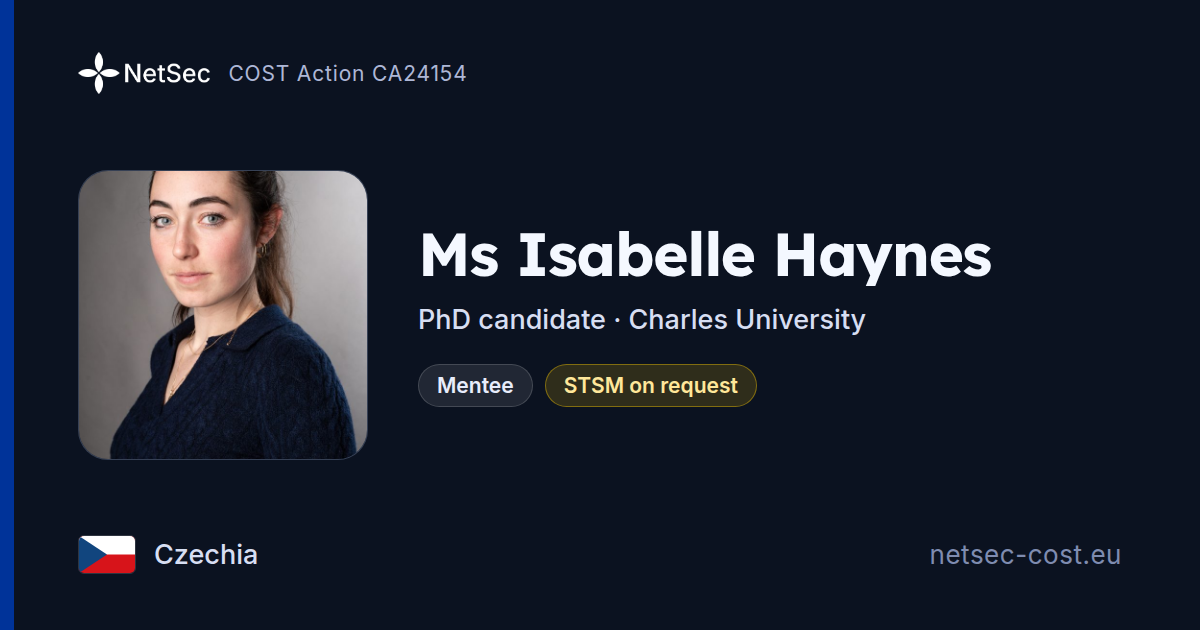
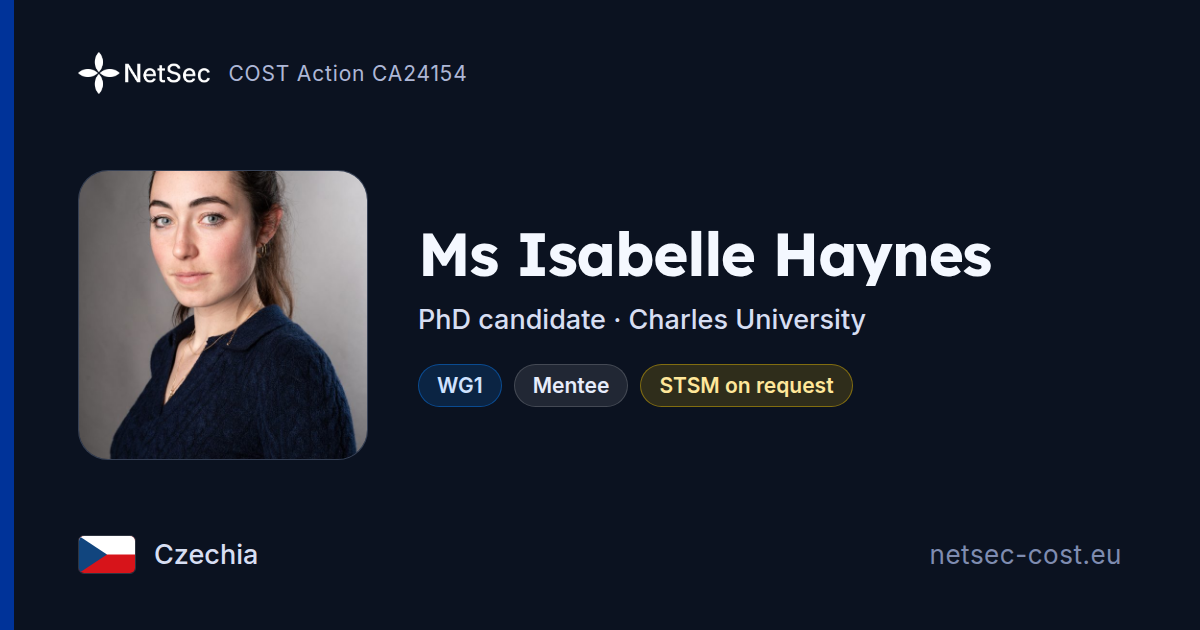
data: sync WG memberships + leadership from cost.eu (#1244)

Changed region(s): [[0.3392, 0.573, 0.7092, 0.6635]]

diff --git a/people/isabelle-haynes.de.html b/people/isabelle-haynes.de.html
@@ -151,7 +151,7 @@
 </header>
 <main id="main" class="profile-page">
   <div class="container profile-container">
-    <article class="member-card glass is-profile"><div class="profile-hero"><div class="member-photo"><picture><source srcset="assets/images/people/isabelle-haynes.webp" type="image/webp"><img src="assets/images/people/isabelle-haynes.jpg" alt="Ms Isabelle Haynes" loading="lazy"></picture></div><div class="profile-hero-id"><h1 class="member-name">Ms Isabelle Haynes</h1><p class="member-affiliation"><img class="member-flag" src="https://flagcdn.com/h20/cz.png" alt="" loading="lazy"> <span class="aff-full">PhD candidate · Charles University · Czechia</span></p><div class="profile-actions"><span class="mentorship-badge is-seeking" data-i18n="Seeking mentorship">Seeking mentorship</span><span class="stsm-badge is-ask" data-i18n="Open to hosting STSM visitors">Open to hosting STSM visitors</span></div></div></div><div class="profile-cols"><div class="profile-main"><p class="member-bio is-expanded">Isabelle Haynes is a PhD candidate in the Area Studies program at the Institute of International Studies, Faculty of Social Sciences, Charles University. She is a Junior Research at the Peace Research Centre Prague and the PhD student on the ERC-project MICROCODE. She holds an MSc in Migration Studies and an MPhil in International Relations from the University of Oxford, as well as a BA in Archaeology and Classics from University College London. Isabelle has professional experience across the public, private, and academic sectors, including roles at UN Tourism, the UK Ministry of Defence, the Nuffield Centre for Experimental Social Science, and SouthWest Archaeology.</p><div class="member-keywords" aria-label="Research interests"><span class="member-keyword-chip is-static">Collective defence</span><span class="member-keyword-chip is-static">Defence attitudes</span><span class="member-keyword-chip is-static">NATO</span><span class="member-keyword-chip is-static">Public opinion</span></div></div><aside class="profile-aside"><div class="profile-anthology-slot" hidden></div><p class="profile-aside-label" data-i18n="Research themes">Research themes</p><div class="profile-areas"><a class="profile-area-chip" href="people.de.html#themes=european-and-transatlantic-security-order" data-i18n="European and transatlantic security order">European and transatlantic security order</a></div><p class="profile-aside-label" data-i18n="Research regions">Research regions</p><div class="profile-areas"><a class="profile-area-chip is-region" href="people.de.html#regions=europe-western-balkans" data-i18n="Europe - Western Balkans">Europe - Western Balkans</a><a class="profile-area-chip is-region" href="people.de.html#regions=global-and-cross-regional" data-i18n="Global and cross-regional">Global and cross-regional</a></div><div class="profile-similar"><p class="profile-aside-label" data-i18n="Works on similar topics">Works on similar topics</p><span class="pf-facepile"><a class="pf-face" href="people/alexander-lanoszka.de.html" aria-label="Dr Alexander Lanoszka"><picture><source srcset="assets/images/people/alexander-lanoszka.webp" type="image/webp"><img src="assets/images/people/alexander-lanoszka.jpg" alt="" width="44" height="44" loading="lazy" decoding="async"></picture></a><a class="pf-face" href="people/john-helferich.de.html" aria-label="Dr John N.T. Helferich"><picture><source srcset="assets/images/people/john-helferich.webp" type="image/webp"><img src="assets/images/people/john-helferich.jpg" alt="" width="44" height="44" loading="lazy" decoding="async"></picture></a><a class="pf-face" href="people/linde-desmaele.de.html" aria-label="Dr Linde Desmaele"><picture><source srcset="assets/images/people/linde-desmaele.webp" type="image/webp"><img src="assets/images/people/linde-desmaele.jpg" alt="" width="44" height="44" loading="lazy" decoding="async"></picture></a><a class="pf-face" href="people/sophie-enos-attali.de.html" aria-label="Dr Sophie Enos-Attali"><span class="pf-initials" aria-hidden="true">DS</span></a><a class="pf-face" href="people/francesco-canossi.de.html" aria-label="Mr Francesco Canossi"><picture><source srcset="assets/images/people/francesco-canossi.webp" type="image/webp"><img src="assets/images/people/francesco-canossi.jpg" alt="" width="44" height="44" loading="lazy" decoding="async"></picture></a><span class="pf-face pf-more" aria-hidden="true">+1</span></span><a class="profile-similar-link" href="people.de.html#themes=european-and-transatlantic-security-order" data-i18n="See everyone in these themes">See everyone in these themes</a></div><div class="profile-similar profile-mentors"><p class="profile-aside-label" data-i18n="Mentors on similar topics">Mentors on similar topics</p><span class="pf-facepile"><a class="pf-face" href="people/alexander-lanoszka.de.html" aria-label="Dr Alexander Lanoszka"><picture><source srcset="assets/images/people/alexander-lanoszka.webp" type="image/webp"><img src="assets/images/people/alexander-lanoszka.jpg" alt="" width="44" height="44" loading="lazy" decoding="async"></picture></a><a class="pf-face" href="people/linde-desmaele.de.html" aria-label="Dr Linde Desmaele"><picture><source srcset="assets/images/people/linde-desmaele.webp" type="image/webp"><img src="assets/images/people/linde-desmaele.jpg" alt="" width="44" height="44" loading="lazy" decoding="async"></picture></a></span><a class="profile-similar-link" href="people.de.html#mentorship=mentor&amp;themes=european-and-transatlantic-security-order" data-i18n="See these mentors in the directory">See these mentors in the directory</a></div><div class="member-contact" aria-label="Contact"><a href="https://www.prcprague.cz/isabelle-haynes" aria-label="Website" title="Website" class="contact-link" target="_blank" rel="noopener"><svg viewBox="0 0 24 24" fill="none" stroke="currentColor" stroke-width="1.9" stroke-linecap="round" stroke-linejoin="round" aria-hidden="true"><circle cx="12" cy="12" r="10"/><path d="M2 12h20M12 2a15.3 15.3 0 010 20M12 2a15.3 15.3 0 000 20"/></svg></a></div></aside></div></article>
+    <article class="member-card glass is-profile"><div class="profile-hero"><div class="member-photo"><picture><source srcset="assets/images/people/isabelle-haynes.webp" type="image/webp"><img src="assets/images/people/isabelle-haynes.jpg" alt="Ms Isabelle Haynes" loading="lazy"></picture></div><div class="profile-hero-id"><h1 class="member-name">Ms Isabelle Haynes</h1><p class="member-role is-soft" data-i18n="Working Group participant">Working Group participant</p><p class="member-affiliation"><img class="member-flag" src="https://flagcdn.com/h20/cz.png" alt="" loading="lazy"> <span class="aff-full">PhD candidate · Charles University · Czechia</span></p><div class="member-wgs" role="group" aria-label="Working-group membership"><span class="wg-chip wg-1">WG1</span></div><div class="profile-actions"><span class="mentorship-badge is-seeking" data-i18n="Seeking mentorship">Seeking mentorship</span><span class="stsm-badge is-ask" data-i18n="Open to hosting STSM visitors">Open to hosting STSM visitors</span></div></div></div><div class="profile-cols"><div class="profile-main"><p class="member-bio is-expanded">Isabelle Haynes is a PhD candidate in the Area Studies program at the Institute of International Studies, Faculty of Social Sciences, Charles University. She is a Junior Research at the Peace Research Centre Prague and the PhD student on the ERC-project MICROCODE. She holds an MSc in Migration Studies and an MPhil in International Relations from the University of Oxford, as well as a BA in Archaeology and Classics from University College London. Isabelle has professional experience across the public, private, and academic sectors, including roles at UN Tourism, the UK Ministry of Defence, the Nuffield Centre for Experimental Social Science, and SouthWest Archaeology.</p><div class="member-keywords" aria-label="Research interests"><span class="member-keyword-chip is-static">Collective defence</span><span class="member-keyword-chip is-static">Defence attitudes</span><span class="member-keyword-chip is-static">NATO</span><span class="member-keyword-chip is-static">Public opinion</span></div></div><aside class="profile-aside"><div class="profile-anthology-slot" hidden></div><p class="profile-aside-label" data-i18n="Research themes">Research themes</p><div class="profile-areas"><a class="profile-area-chip" href="people.de.html#themes=european-and-transatlantic-security-order" data-i18n="European and transatlantic security order">European and transatlantic security order</a></div><p class="profile-aside-label" data-i18n="Research regions">Research regions</p><div class="profile-areas"><a class="profile-area-chip is-region" href="people.de.html#regions=europe-western-balkans" data-i18n="Europe - Western Balkans">Europe - Western Balkans</a><a class="profile-area-chip is-region" href="people.de.html#regions=global-and-cross-regional" data-i18n="Global and cross-regional">Global and cross-regional</a></div><div class="profile-similar"><p class="profile-aside-label" data-i18n="Works on similar topics">Works on similar topics</p><span class="pf-facepile"><a class="pf-face" href="people/alexander-lanoszka.de.html" aria-label="Dr Alexander Lanoszka"><picture><source srcset="assets/images/people/alexander-lanoszka.webp" type="image/webp"><img src="assets/images/people/alexander-lanoszka.jpg" alt="" width="44" height="44" loading="lazy" decoding="async"></picture></a><a class="pf-face" href="people/john-helferich.de.html" aria-label="Dr John N.T. Helferich"><picture><source srcset="assets/images/people/john-helferich.webp" type="image/webp"><img src="assets/images/people/john-helferich.jpg" alt="" width="44" height="44" loading="lazy" decoding="async"></picture></a><a class="pf-face" href="people/linde-desmaele.de.html" aria-label="Dr Linde Desmaele"><picture><source srcset="assets/images/people/linde-desmaele.webp" type="image/webp"><img src="assets/images/people/linde-desmaele.jpg" alt="" width="44" height="44" loading="lazy" decoding="async"></picture></a><a class="pf-face" href="people/sophie-enos-attali.de.html" aria-label="Dr Sophie Enos-Attali"><span class="pf-initials" aria-hidden="true">DS</span></a><a class="pf-face" href="people/francesco-canossi.de.html" aria-label="Mr Francesco Canossi"><picture><source srcset="assets/images/people/francesco-canossi.webp" type="image/webp"><img src="assets/images/people/francesco-canossi.jpg" alt="" width="44" height="44" loading="lazy" decoding="async"></picture></a><span class="pf-face pf-more" aria-hidden="true">+1</span></span><a class="profile-similar-link" href="people.de.html#themes=european-and-transatlantic-security-order" data-i18n="See everyone in these themes">See everyone in these themes</a></div><div class="profile-similar profile-mentors"><p class="profile-aside-label" data-i18n="Mentors on similar topics">Mentors on similar topics</p><span class="pf-facepile"><a class="pf-face" href="people/alexander-lanoszka.de.html" aria-label="Dr Alexander Lanoszka"><picture><source srcset="assets/images/people/alexander-lanoszka.webp" type="image/webp"><img src="assets/images/people/alexander-lanoszka.jpg" alt="" width="44" height="44" loading="lazy" decoding="async"></picture></a><a class="pf-face" href="people/linde-desmaele.de.html" aria-label="Dr Linde Desmaele"><picture><source srcset="assets/images/people/linde-desmaele.webp" type="image/webp"><img src="assets/images/people/linde-desmaele.jpg" alt="" width="44" height="44" loading="lazy" decoding="async"></picture></a></span><a class="profile-similar-link" href="people.de.html#mentorship=mentor&amp;themes=european-and-transatlantic-security-order" data-i18n="See these mentors in the directory">See these mentors in the directory</a></div><div class="member-contact" aria-label="Contact"><a href="https://www.prcprague.cz/isabelle-haynes" aria-label="Website" title="Website" class="contact-link" target="_blank" rel="noopener"><svg viewBox="0 0 24 24" fill="none" stroke="currentColor" stroke-width="1.9" stroke-linecap="round" stroke-linejoin="round" aria-hidden="true"><circle cx="12" cy="12" r="10"/><path d="M2 12h20M12 2a15.3 15.3 0 010 20M12 2a15.3 15.3 0 000 20"/></svg></a></div></aside></div></article>
     <p class="profile-back"><a href="people.de.html#isabelle-haynes" data-i18n="Back to the directory">&larr; Back to the directory</a></p>
   </div>
 </main>

diff --git a/people/isabelle-haynes.fr.html b/people/isabelle-haynes.fr.html
@@ -151,7 +151,7 @@
 </header>
 <main id="main" class="profile-page">
   <div class="container profile-container">
-    <article class="member-card glass is-profile"><div class="profile-hero"><div class="member-photo"><picture><source srcset="assets/images/people/isabelle-haynes.webp" type="image/webp"><img src="assets/images/people/isabelle-haynes.jpg" alt="Ms Isabelle Haynes" loading="lazy"></picture></div><div class="profile-hero-id"><h1 class="member-name">Ms Isabelle Haynes</h1><p class="member-affiliation"><img class="member-flag" src="https://flagcdn.com/h20/cz.png" alt="" loading="lazy"> <span class="aff-full">PhD candidate · Charles University · Czechia</span></p><div class="profile-actions"><span class="mentorship-badge is-seeking" data-i18n="Seeking mentorship">Seeking mentorship</span><span class="stsm-badge is-ask" data-i18n="Open to hosting STSM visitors">Open to hosting STSM visitors</span></div></div></div><div class="profile-cols"><div class="profile-main"><p class="member-bio is-expanded">Isabelle Haynes is a PhD candidate in the Area Studies program at the Institute of International Studies, Faculty of Social Sciences, Charles University. She is a Junior Research at the Peace Research Centre Prague and the PhD student on the ERC-project MICROCODE. She holds an MSc in Migration Studies and an MPhil in International Relations from the University of Oxford, as well as a BA in Archaeology and Classics from University College London. Isabelle has professional experience across the public, private, and academic sectors, including roles at UN Tourism, the UK Ministry of Defence, the Nuffield Centre for Experimental Social Science, and SouthWest Archaeology.</p><div class="member-keywords" aria-label="Research interests"><span class="member-keyword-chip is-static">Collective defence</span><span class="member-keyword-chip is-static">Defence attitudes</span><span class="member-keyword-chip is-static">NATO</span><span class="member-keyword-chip is-static">Public opinion</span></div></div><aside class="profile-aside"><div class="profile-anthology-slot" hidden></div><p class="profile-aside-label" data-i18n="Research themes">Research themes</p><div class="profile-areas"><a class="profile-area-chip" href="people.fr.html#themes=european-and-transatlantic-security-order" data-i18n="European and transatlantic security order">European and transatlantic security order</a></div><p class="profile-aside-label" data-i18n="Research regions">Research regions</p><div class="profile-areas"><a class="profile-area-chip is-region" href="people.fr.html#regions=europe-western-balkans" data-i18n="Europe - Western Balkans">Europe - Western Balkans</a><a class="profile-area-chip is-region" href="people.fr.html#regions=global-and-cross-regional" data-i18n="Global and cross-regional">Global and cross-regional</a></div><div class="profile-similar"><p class="profile-aside-label" data-i18n="Works on similar topics">Works on similar topics</p><span class="pf-facepile"><a class="pf-face" href="people/alexander-lanoszka.fr.html" aria-label="Dr Alexander Lanoszka"><picture><source srcset="assets/images/people/alexander-lanoszka.webp" type="image/webp"><img src="assets/images/people/alexander-lanoszka.jpg" alt="" width="44" height="44" loading="lazy" decoding="async"></picture></a><a class="pf-face" href="people/john-helferich.fr.html" aria-label="Dr John N.T. Helferich"><picture><source srcset="assets/images/people/john-helferich.webp" type="image/webp"><img src="assets/images/people/john-helferich.jpg" alt="" width="44" height="44" loading="lazy" decoding="async"></picture></a><a class="pf-face" href="people/linde-desmaele.fr.html" aria-label="Dr Linde Desmaele"><picture><source srcset="assets/images/people/linde-desmaele.webp" type="image/webp"><img src="assets/images/people/linde-desmaele.jpg" alt="" width="44" height="44" loading="lazy" decoding="async"></picture></a><a class="pf-face" href="people/sophie-enos-attali.fr.html" aria-label="Dr Sophie Enos-Attali"><span class="pf-initials" aria-hidden="true">DS</span></a><a class="pf-face" href="people/francesco-canossi.fr.html" aria-label="Mr Francesco Canossi"><picture><source srcset="assets/images/people/francesco-canossi.webp" type="image/webp"><img src="assets/images/people/francesco-canossi.jpg" alt="" width="44" height="44" loading="lazy" decoding="async"></picture></a><span class="pf-face pf-more" aria-hidden="true">+1</span></span><a class="profile-similar-link" href="people.fr.html#themes=european-and-transatlantic-security-order" data-i18n="See everyone in these themes">See everyone in these themes</a></div><div class="profile-similar profile-mentors"><p class="profile-aside-label" data-i18n="Mentors on similar topics">Mentors on similar topics</p><span class="pf-facepile"><a class="pf-face" href="people/alexander-lanoszka.fr.html" aria-label="Dr Alexander Lanoszka"><picture><source srcset="assets/images/people/alexander-lanoszka.webp" type="image/webp"><img src="assets/images/people/alexander-lanoszka.jpg" alt="" width="44" height="44" loading="lazy" decoding="async"></picture></a><a class="pf-face" href="people/linde-desmaele.fr.html" aria-label="Dr Linde Desmaele"><picture><source srcset="assets/images/people/linde-desmaele.webp" type="image/webp"><img src="assets/images/people/linde-desmaele.jpg" alt="" width="44" height="44" loading="lazy" decoding="async"></picture></a></span><a class="profile-similar-link" href="people.fr.html#mentorship=mentor&amp;themes=european-and-transatlantic-security-order" data-i18n="See these mentors in the directory">See these mentors in the directory</a></div><div class="member-contact" aria-label="Contact"><a href="https://www.prcprague.cz/isabelle-haynes" aria-label="Website" title="Website" class="contact-link" target="_blank" rel="noopener"><svg viewBox="0 0 24 24" fill="none" stroke="currentColor" stroke-width="1.9" stroke-linecap="round" stroke-linejoin="round" aria-hidden="true"><circle cx="12" cy="12" r="10"/><path d="M2 12h20M12 2a15.3 15.3 0 010 20M12 2a15.3 15.3 0 000 20"/></svg></a></div></aside></div></article>
+    <article class="member-card glass is-profile"><div class="profile-hero"><div class="member-photo"><picture><source srcset="assets/images/people/isabelle-haynes.webp" type="image/webp"><img src="assets/images/people/isabelle-haynes.jpg" alt="Ms Isabelle Haynes" loading="lazy"></picture></div><div class="profile-hero-id"><h1 class="member-name">Ms Isabelle Haynes</h1><p class="member-role is-soft" data-i18n="Working Group participant">Working Group participant</p><p class="member-affiliation"><img class="member-flag" src="https://flagcdn.com/h20/cz.png" alt="" loading="lazy"> <span class="aff-full">PhD candidate · Charles University · Czechia</span></p><div class="member-wgs" role="group" aria-label="Working-group membership"><span class="wg-chip wg-1">WG1</span></div><div class="profile-actions"><span class="mentorship-badge is-seeking" data-i18n="Seeking mentorship">Seeking mentorship</span><span class="stsm-badge is-ask" data-i18n="Open to hosting STSM visitors">Open to hosting STSM visitors</span></div></div></div><div class="profile-cols"><div class="profile-main"><p class="member-bio is-expanded">Isabelle Haynes is a PhD candidate in the Area Studies program at the Institute of International Studies, Faculty of Social Sciences, Charles University. She is a Junior Research at the Peace Research Centre Prague and the PhD student on the ERC-project MICROCODE. She holds an MSc in Migration Studies and an MPhil in International Relations from the University of Oxford, as well as a BA in Archaeology and Classics from University College London. Isabelle has professional experience across the public, private, and academic sectors, including roles at UN Tourism, the UK Ministry of Defence, the Nuffield Centre for Experimental Social Science, and SouthWest Archaeology.</p><div class="member-keywords" aria-label="Research interests"><span class="member-keyword-chip is-static">Collective defence</span><span class="member-keyword-chip is-static">Defence attitudes</span><span class="member-keyword-chip is-static">NATO</span><span class="member-keyword-chip is-static">Public opinion</span></div></div><aside class="profile-aside"><div class="profile-anthology-slot" hidden></div><p class="profile-aside-label" data-i18n="Research themes">Research themes</p><div class="profile-areas"><a class="profile-area-chip" href="people.fr.html#themes=european-and-transatlantic-security-order" data-i18n="European and transatlantic security order">European and transatlantic security order</a></div><p class="profile-aside-label" data-i18n="Research regions">Research regions</p><div class="profile-areas"><a class="profile-area-chip is-region" href="people.fr.html#regions=europe-western-balkans" data-i18n="Europe - Western Balkans">Europe - Western Balkans</a><a class="profile-area-chip is-region" href="people.fr.html#regions=global-and-cross-regional" data-i18n="Global and cross-regional">Global and cross-regional</a></div><div class="profile-similar"><p class="profile-aside-label" data-i18n="Works on similar topics">Works on similar topics</p><span class="pf-facepile"><a class="pf-face" href="people/alexander-lanoszka.fr.html" aria-label="Dr Alexander Lanoszka"><picture><source srcset="assets/images/people/alexander-lanoszka.webp" type="image/webp"><img src="assets/images/people/alexander-lanoszka.jpg" alt="" width="44" height="44" loading="lazy" decoding="async"></picture></a><a class="pf-face" href="people/john-helferich.fr.html" aria-label="Dr John N.T. Helferich"><picture><source srcset="assets/images/people/john-helferich.webp" type="image/webp"><img src="assets/images/people/john-helferich.jpg" alt="" width="44" height="44" loading="lazy" decoding="async"></picture></a><a class="pf-face" href="people/linde-desmaele.fr.html" aria-label="Dr Linde Desmaele"><picture><source srcset="assets/images/people/linde-desmaele.webp" type="image/webp"><img src="assets/images/people/linde-desmaele.jpg" alt="" width="44" height="44" loading="lazy" decoding="async"></picture></a><a class="pf-face" href="people/sophie-enos-attali.fr.html" aria-label="Dr Sophie Enos-Attali"><span class="pf-initials" aria-hidden="true">DS</span></a><a class="pf-face" href="people/francesco-canossi.fr.html" aria-label="Mr Francesco Canossi"><picture><source srcset="assets/images/people/francesco-canossi.webp" type="image/webp"><img src="assets/images/people/francesco-canossi.jpg" alt="" width="44" height="44" loading="lazy" decoding="async"></picture></a><span class="pf-face pf-more" aria-hidden="true">+1</span></span><a class="profile-similar-link" href="people.fr.html#themes=european-and-transatlantic-security-order" data-i18n="See everyone in these themes">See everyone in these themes</a></div><div class="profile-similar profile-mentors"><p class="profile-aside-label" data-i18n="Mentors on similar topics">Mentors on similar topics</p><span class="pf-facepile"><a class="pf-face" href="people/alexander-lanoszka.fr.html" aria-label="Dr Alexander Lanoszka"><picture><source srcset="assets/images/people/alexander-lanoszka.webp" type="image/webp"><img src="assets/images/people/alexander-lanoszka.jpg" alt="" width="44" height="44" loading="lazy" decoding="async"></picture></a><a class="pf-face" href="people/linde-desmaele.fr.html" aria-label="Dr Linde Desmaele"><picture><source srcset="assets/images/people/linde-desmaele.webp" type="image/webp"><img src="assets/images/people/linde-desmaele.jpg" alt="" width="44" height="44" loading="lazy" decoding="async"></picture></a></span><a class="profile-similar-link" href="people.fr.html#mentorship=mentor&amp;themes=european-and-transatlantic-security-order" data-i18n="See these mentors in the directory">See these mentors in the directory</a></div><div class="member-contact" aria-label="Contact"><a href="https://www.prcprague.cz/isabelle-haynes" aria-label="Website" title="Website" class="contact-link" target="_blank" rel="noopener"><svg viewBox="0 0 24 24" fill="none" stroke="currentColor" stroke-width="1.9" stroke-linecap="round" stroke-linejoin="round" aria-hidden="true"><circle cx="12" cy="12" r="10"/><path d="M2 12h20M12 2a15.3 15.3 0 010 20M12 2a15.3 15.3 0 000 20"/></svg></a></div></aside></div></article>
     <p class="profile-back"><a href="people.fr.html#isabelle-haynes" data-i18n="Back to the directory">&larr; Back to the directory</a></p>
   </div>
 </main>

diff --git a/people/isabelle-haynes.html b/people/isabelle-haynes.html
@@ -147,7 +147,7 @@
 </header>
 <main id="main" class="profile-page">
   <div class="container profile-container">
-    <article class="member-card glass is-profile"><div class="profile-hero"><div class="member-photo"><picture><source srcset="assets/images/people/isabelle-haynes.webp" type="image/webp"><img src="assets/images/people/isabelle-haynes.jpg" alt="Ms Isabelle Haynes" loading="lazy"></picture></div><div class="profile-hero-id"><h1 class="member-name">Ms Isabelle Haynes</h1><p class="member-affiliation"><img class="member-flag" src="https://flagcdn.com/h20/cz.png" alt="" loading="lazy"> <span class="aff-full">PhD candidate · Charles University · Czechia</span></p><div class="profile-actions"><span class="mentorship-badge is-seeking" data-i18n="Seeking mentorship">Seeking mentorship</span><span class="stsm-badge is-ask" data-i18n="Open to hosting STSM visitors">Open to hosting STSM visitors</span></div></div></div><div class="profile-cols"><div class="profile-main"><p class="member-bio is-expanded">Isabelle Haynes is a PhD candidate in the Area Studies program at the Institute of International Studies, Faculty of Social Sciences, Charles University. She is a Junior Research at the Peace Research Centre Prague and the PhD student on the ERC-project MICROCODE. She holds an MSc in Migration Studies and an MPhil in International Relations from the University of Oxford, as well as a BA in Archaeology and Classics from University College London. Isabelle has professional experience across the public, private, and academic sectors, including roles at UN Tourism, the UK Ministry of Defence, the Nuffield Centre for Experimental Social Science, and SouthWest Archaeology.</p><div class="member-keywords" aria-label="Research interests"><span class="member-keyword-chip is-static">Collective defence</span><span class="member-keyword-chip is-static">Defence attitudes</span><span class="member-keyword-chip is-static">NATO</span><span class="member-keyword-chip is-static">Public opinion</span></div></div><aside class="profile-aside"><div class="profile-anthology-slot" hidden></div><p class="profile-aside-label" data-i18n="Research themes">Research themes</p><div class="profile-areas"><a class="profile-area-chip" href="people.html#themes=european-and-transatlantic-security-order" data-i18n="European and transatlantic security order">European and transatlantic security order</a></div><p class="profile-aside-label" data-i18n="Research regions">Research regions</p><div class="profile-areas"><a class="profile-area-chip is-region" href="people.html#regions=europe-western-balkans" data-i18n="Europe - Western Balkans">Europe - Western Balkans</a><a class="profile-area-chip is-region" href="people.html#regions=global-and-cross-regional" data-i18n="Global and cross-regional">Global and cross-regional</a></div><div class="profile-similar"><p class="profile-aside-label" data-i18n="Works on similar topics">Works on similar topics</p><span class="pf-facepile"><a class="pf-face" href="people/alexander-lanoszka.html" aria-label="Dr Alexander Lanoszka"><picture><source srcset="assets/images/people/alexander-lanoszka.webp" type="image/webp"><img src="assets/images/people/alexander-lanoszka.jpg" alt="" width="44" height="44" loading="lazy" decoding="async"></picture></a><a class="pf-face" href="people/john-helferich.html" aria-label="Dr John N.T. Helferich"><picture><source srcset="assets/images/people/john-helferich.webp" type="image/webp"><img src="assets/images/people/john-helferich.jpg" alt="" width="44" height="44" loading="lazy" decoding="async"></picture></a><a class="pf-face" href="people/linde-desmaele.html" aria-label="Dr Linde Desmaele"><picture><source srcset="assets/images/people/linde-desmaele.webp" type="image/webp"><img src="assets/images/people/linde-desmaele.jpg" alt="" width="44" height="44" loading="lazy" decoding="async"></picture></a><a class="pf-face" href="people/sophie-enos-attali.html" aria-label="Dr Sophie Enos-Attali"><span class="pf-initials" aria-hidden="true">DS</span></a><a class="pf-face" href="people/francesco-canossi.html" aria-label="Mr Francesco Canossi"><picture><source srcset="assets/images/people/francesco-canossi.webp" type="image/webp"><img src="assets/images/people/francesco-canossi.jpg" alt="" width="44" height="44" loading="lazy" decoding="async"></picture></a><span class="pf-face pf-more" aria-hidden="true">+1</span></span><a class="profile-similar-link" href="people.html#themes=european-and-transatlantic-security-order" data-i18n="See everyone in these themes">See everyone in these themes</a></div><div class="profile-similar profile-mentors"><p class="profile-aside-label" data-i18n="Mentors on similar topics">Mentors on similar topics</p><span class="pf-facepile"><a class="pf-face" href="people/alexander-lanoszka.html" aria-label="Dr Alexander Lanoszka"><picture><source srcset="assets/images/people/alexander-lanoszka.webp" type="image/webp"><img src="assets/images/people/alexander-lanoszka.jpg" alt="" width="44" height="44" loading="lazy" decoding="async"></picture></a><a class="pf-face" href="people/linde-desmaele.html" aria-label="Dr Linde Desmaele"><picture><source srcset="assets/images/people/linde-desmaele.webp" type="image/webp"><img src="assets/images/people/linde-desmaele.jpg" alt="" width="44" height="44" loading="lazy" decoding="async"></picture></a></span><a class="profile-similar-link" href="people.html#mentorship=mentor&amp;themes=european-and-transatlantic-security-order" data-i18n="See these mentors in the directory">See these mentors in the directory</a></div><div class="member-contact" aria-label="Contact"><a href="https://www.prcprague.cz/isabelle-haynes" aria-label="Website" title="Website" class="contact-link" target="_blank" rel="noopener"><svg viewBox="0 0 24 24" fill="none" stroke="currentColor" stroke-width="1.9" stroke-linecap="round" stroke-linejoin="round" aria-hidden="true"><circle cx="12" cy="12" r="10"/><path d="M2 12h20M12 2a15.3 15.3 0 010 20M12 2a15.3 15.3 0 000 20"/></svg></a></div></aside></div></article>
+    <article class="member-card glass is-profile"><div class="profile-hero"><div class="member-photo"><picture><source srcset="assets/images/people/isabelle-haynes.webp" type="image/webp"><img src="assets/images/people/isabelle-haynes.jpg" alt="Ms Isabelle Haynes" loading="lazy"></picture></div><div class="profile-hero-id"><h1 class="member-name">Ms Isabelle Haynes</h1><p class="member-role is-soft" data-i18n="Working Group participant">Working Group participant</p><p class="member-affiliation"><img class="member-flag" src="https://flagcdn.com/h20/cz.png" alt="" loading="lazy"> <span class="aff-full">PhD candidate · Charles University · Czechia</span></p><div class="member-wgs" role="group" aria-label="Working-group membership"><span class="wg-chip wg-1">WG1</span></div><div class="profile-actions"><span class="mentorship-badge is-seeking" data-i18n="Seeking mentorship">Seeking mentorship</span><span class="stsm-badge is-ask" data-i18n="Open to hosting STSM visitors">Open to hosting STSM visitors</span></div></div></div><div class="profile-cols"><div class="profile-main"><p class="member-bio is-expanded">Isabelle Haynes is a PhD candidate in the Area Studies program at the Institute of International Studies, Faculty of Social Sciences, Charles University. She is a Junior Research at the Peace Research Centre Prague and the PhD student on the ERC-project MICROCODE. She holds an MSc in Migration Studies and an MPhil in International Relations from the University of Oxford, as well as a BA in Archaeology and Classics from University College London. Isabelle has professional experience across the public, private, and academic sectors, including roles at UN Tourism, the UK Ministry of Defence, the Nuffield Centre for Experimental Social Science, and SouthWest Archaeology.</p><div class="member-keywords" aria-label="Research interests"><span class="member-keyword-chip is-static">Collective defence</span><span class="member-keyword-chip is-static">Defence attitudes</span><span class="member-keyword-chip is-static">NATO</span><span class="member-keyword-chip is-static">Public opinion</span></div></div><aside class="profile-aside"><div class="profile-anthology-slot" hidden></div><p class="profile-aside-label" data-i18n="Research themes">Research themes</p><div class="profile-areas"><a class="profile-area-chip" href="people.html#themes=european-and-transatlantic-security-order" data-i18n="European and transatlantic security order">European and transatlantic security order</a></div><p class="profile-aside-label" data-i18n="Research regions">Research regions</p><div class="profile-areas"><a class="profile-area-chip is-region" href="people.html#regions=europe-western-balkans" data-i18n="Europe - Western Balkans">Europe - Western Balkans</a><a class="profile-area-chip is-region" href="people.html#regions=global-and-cross-regional" data-i18n="Global and cross-regional">Global and cross-regional</a></div><div class="profile-similar"><p class="profile-aside-label" data-i18n="Works on similar topics">Works on similar topics</p><span class="pf-facepile"><a class="pf-face" href="people/alexander-lanoszka.html" aria-label="Dr Alexander Lanoszka"><picture><source srcset="assets/images/people/alexander-lanoszka.webp" type="image/webp"><img src="assets/images/people/alexander-lanoszka.jpg" alt="" width="44" height="44" loading="lazy" decoding="async"></picture></a><a class="pf-face" href="people/john-helferich.html" aria-label="Dr John N.T. Helferich"><picture><source srcset="assets/images/people/john-helferich.webp" type="image/webp"><img src="assets/images/people/john-helferich.jpg" alt="" width="44" height="44" loading="lazy" decoding="async"></picture></a><a class="pf-face" href="people/linde-desmaele.html" aria-label="Dr Linde Desmaele"><picture><source srcset="assets/images/people/linde-desmaele.webp" type="image/webp"><img src="assets/images/people/linde-desmaele.jpg" alt="" width="44" height="44" loading="lazy" decoding="async"></picture></a><a class="pf-face" href="people/sophie-enos-attali.html" aria-label="Dr Sophie Enos-Attali"><span class="pf-initials" aria-hidden="true">DS</span></a><a class="pf-face" href="people/francesco-canossi.html" aria-label="Mr Francesco Canossi"><picture><source srcset="assets/images/people/francesco-canossi.webp" type="image/webp"><img src="assets/images/people/francesco-canossi.jpg" alt="" width="44" height="44" loading="lazy" decoding="async"></picture></a><span class="pf-face pf-more" aria-hidden="true">+1</span></span><a class="profile-similar-link" href="people.html#themes=european-and-transatlantic-security-order" data-i18n="See everyone in these themes">See everyone in these themes</a></div><div class="profile-similar profile-mentors"><p class="profile-aside-label" data-i18n="Mentors on similar topics">Mentors on similar topics</p><span class="pf-facepile"><a class="pf-face" href="people/alexander-lanoszka.html" aria-label="Dr Alexander Lanoszka"><picture><source srcset="assets/images/people/alexander-lanoszka.webp" type="image/webp"><img src="assets/images/people/alexander-lanoszka.jpg" alt="" width="44" height="44" loading="lazy" decoding="async"></picture></a><a class="pf-face" href="people/linde-desmaele.html" aria-label="Dr Linde Desmaele"><picture><source srcset="assets/images/people/linde-desmaele.webp" type="image/webp"><img src="assets/images/people/linde-desmaele.jpg" alt="" width="44" height="44" loading="lazy" decoding="async"></picture></a></span><a class="profile-similar-link" href="people.html#mentorship=mentor&amp;themes=european-and-transatlantic-security-order" data-i18n="See these mentors in the directory">See these mentors in the directory</a></div><div class="member-contact" aria-label="Contact"><a href="https://www.prcprague.cz/isabelle-haynes" aria-label="Website" title="Website" class="contact-link" target="_blank" rel="noopener"><svg viewBox="0 0 24 24" fill="none" stroke="currentColor" stroke-width="1.9" stroke-linecap="round" stroke-linejoin="round" aria-hidden="true"><circle cx="12" cy="12" r="10"/><path d="M2 12h20M12 2a15.3 15.3 0 010 20M12 2a15.3 15.3 0 000 20"/></svg></a></div></aside></div></article>
     <p class="profile-back"><a href="people.html#isabelle-haynes" data-i18n="Back to the directory">&larr; Back to the directory</a></p>
   </div>
 </main>
